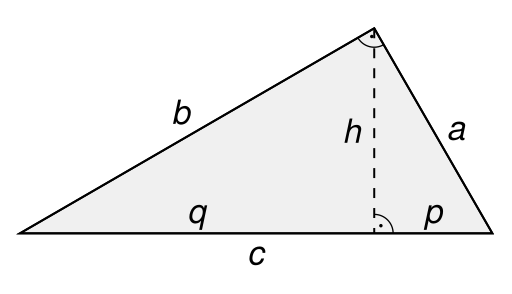
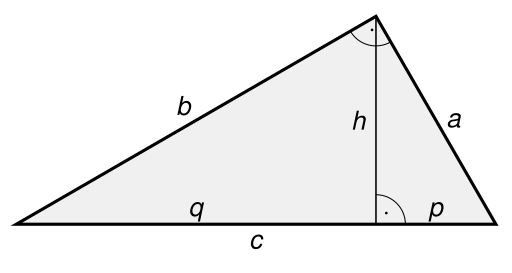
Make letters in comparison to triangle smaller in tikz/triangle-right-abchpq

diff --git a/tikz/triangle-right-abchpq/triangle-right-abchpq.tex b/tikz/triangle-right-abchpq/triangle-right-abchpq.tex
@@ -13,7 +13,7 @@
 
 \begin{document}
 \begin{preview}
-\begin{tikzpicture}[very thick,font=\sansmath\sffamily]
+\begin{tikzpicture}[very thick,font=\sansmath\sffamily,scale=1.3]
     \newcommand{\radius}{5}
     \newcommand{\TriangleAngle}{30}
     \tkzDefPoint(0,0){A}
@@ -42,14 +42,14 @@
     % \tkzMarkAngle[arc=l,size=0.6cm,fill=green!30](C,B,A)
     % \tkzLabelAngle[pos=0.45](C,B,A){$\beta$}
 
-    \tkzDrawSegment[dashed](C,E)
+    \tkzDrawSegment(C,E)
     \tkzLabelSegment[left](C,E){$h$}
 
-    \draw[thin] pic[draw, angle radius=2mm,"$\cdot$",angle eccentricity=.5]{angle=B--E--C};
-    \draw[thin] pic[draw, angle radius=2mm,"$\cdot$",angle eccentricity=.5]{angle=A--C--B};
+    \draw[thin] pic[draw, angle radius=4mm,"$\cdot$",angle eccentricity=.5]{angle=B--E--C};
+    \draw[thin] pic[draw, angle radius=4mm,"$\cdot$",angle eccentricity=.5]{angle=A--C--B};
 
     % Draw polygon
-    \tkzDrawPolygon(A,B,C)
+    \tkzDrawPolygon[very thick](A,B,C)
 \end{tikzpicture}
 \end{preview}
 \end{document}
